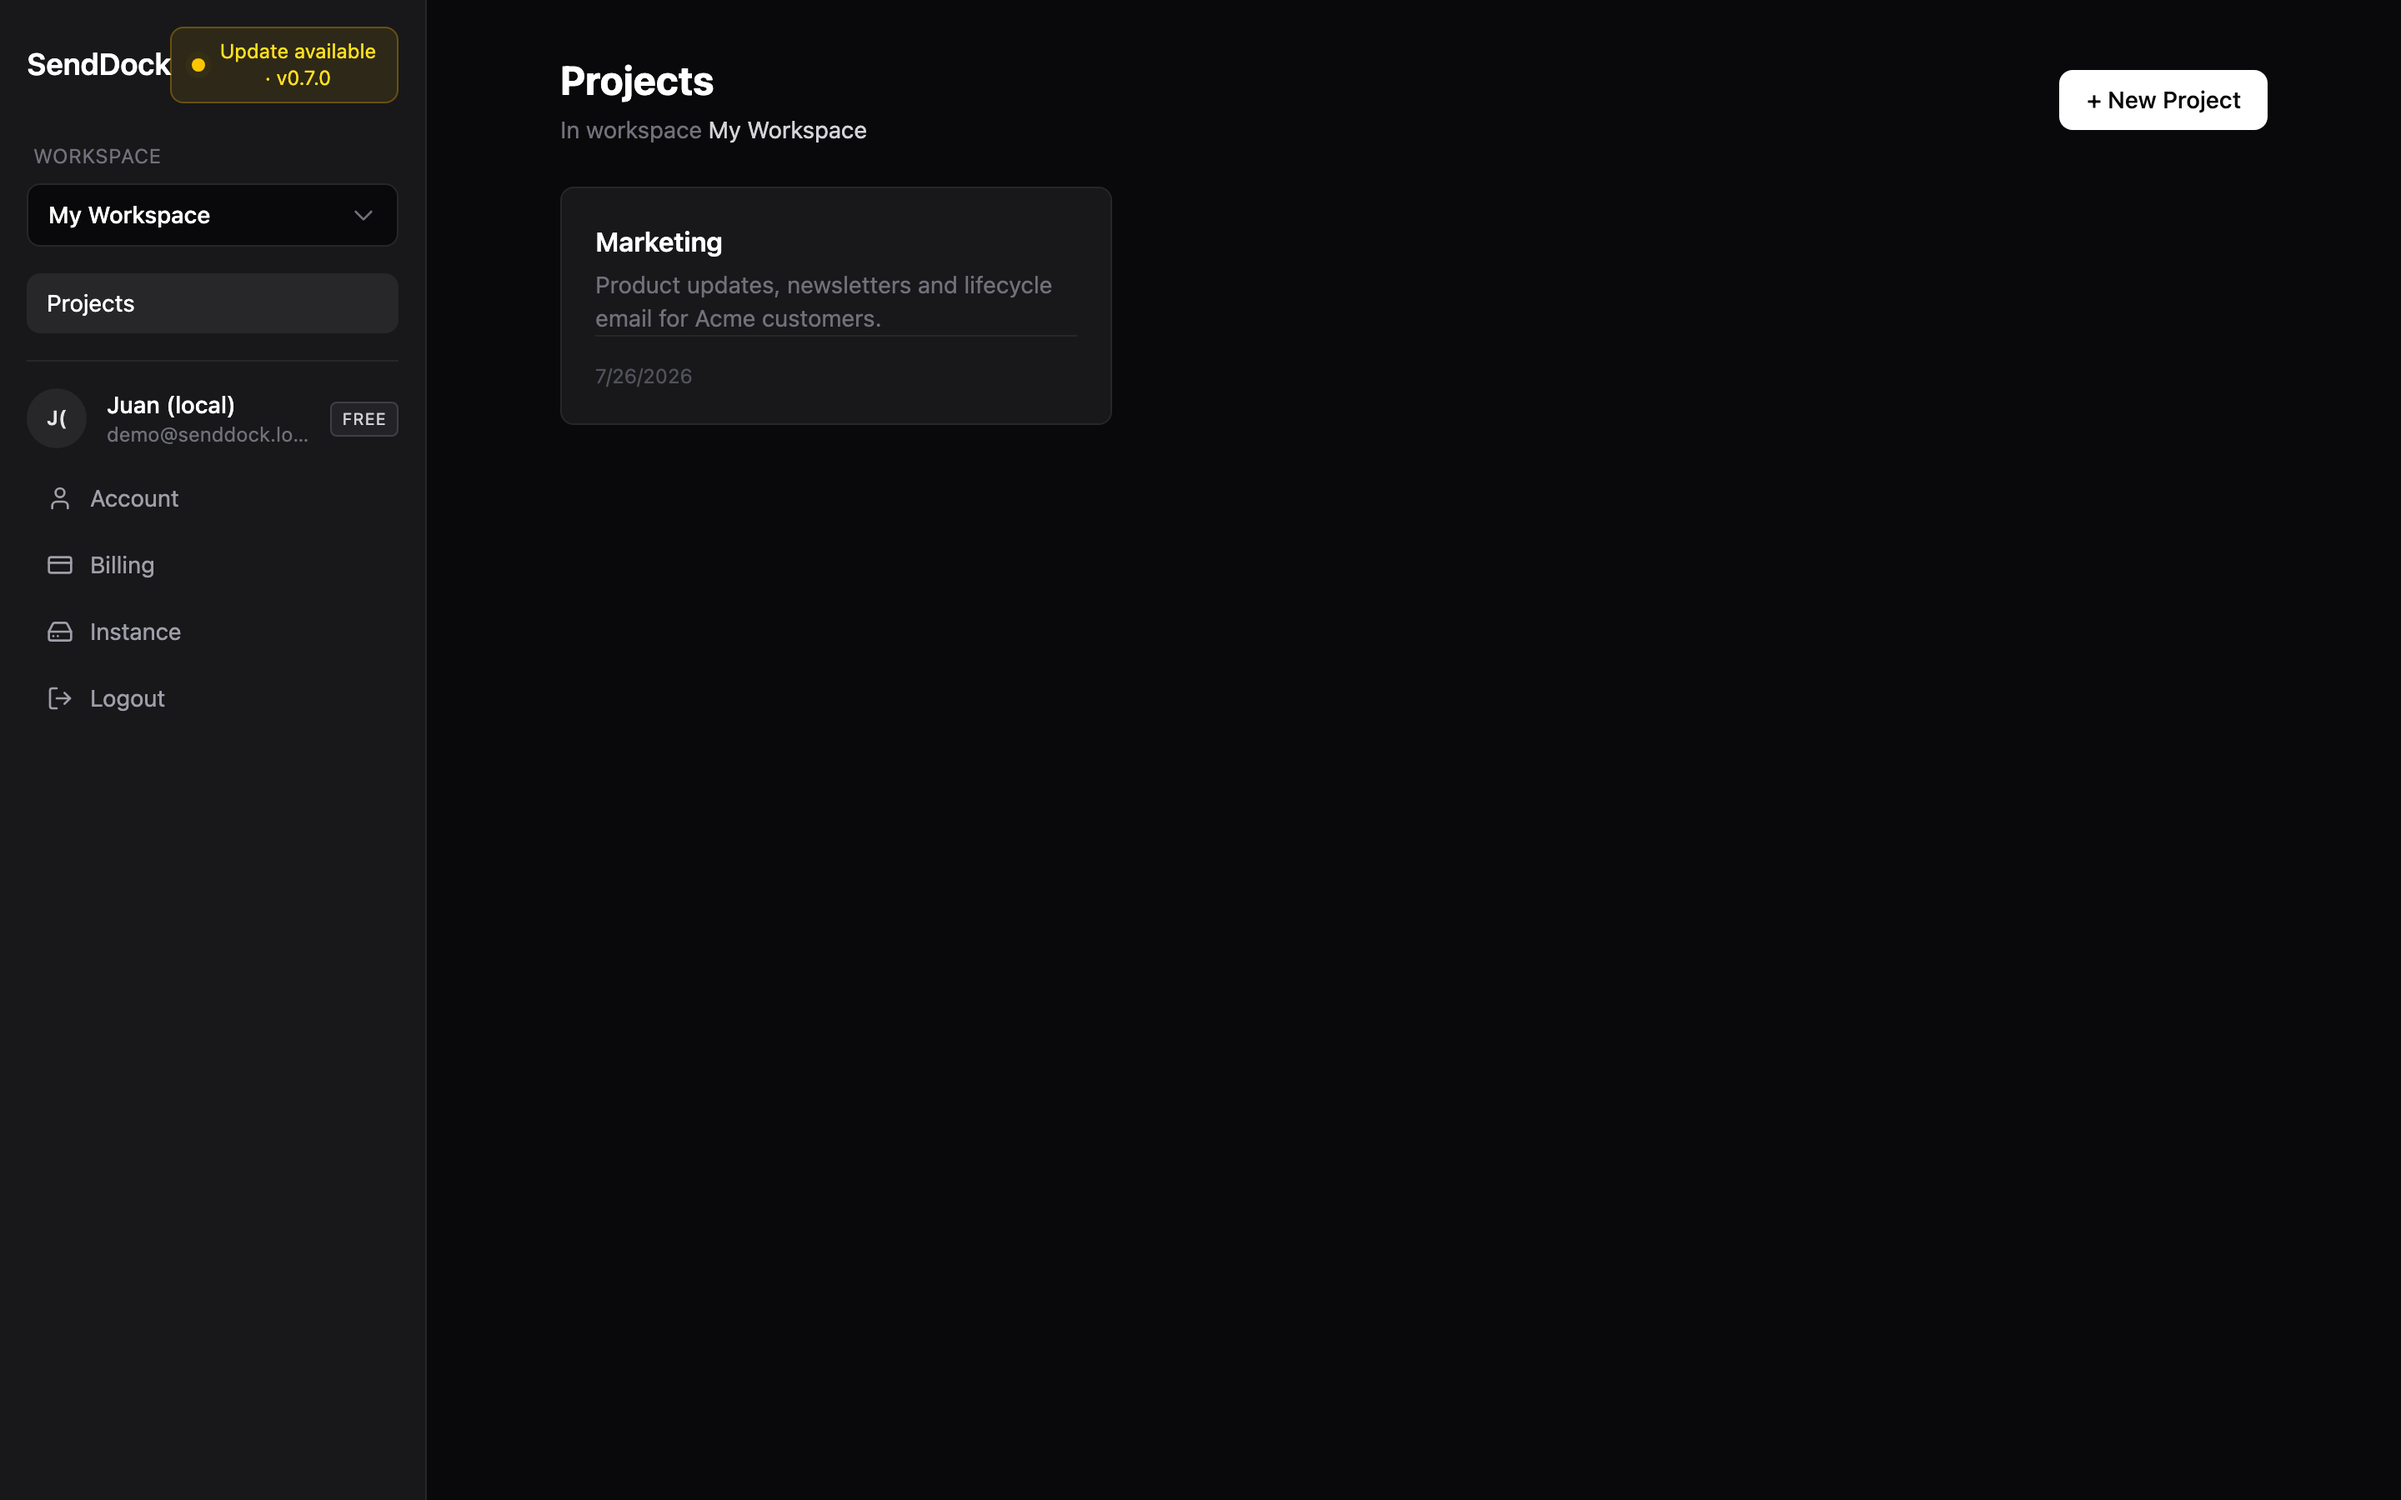
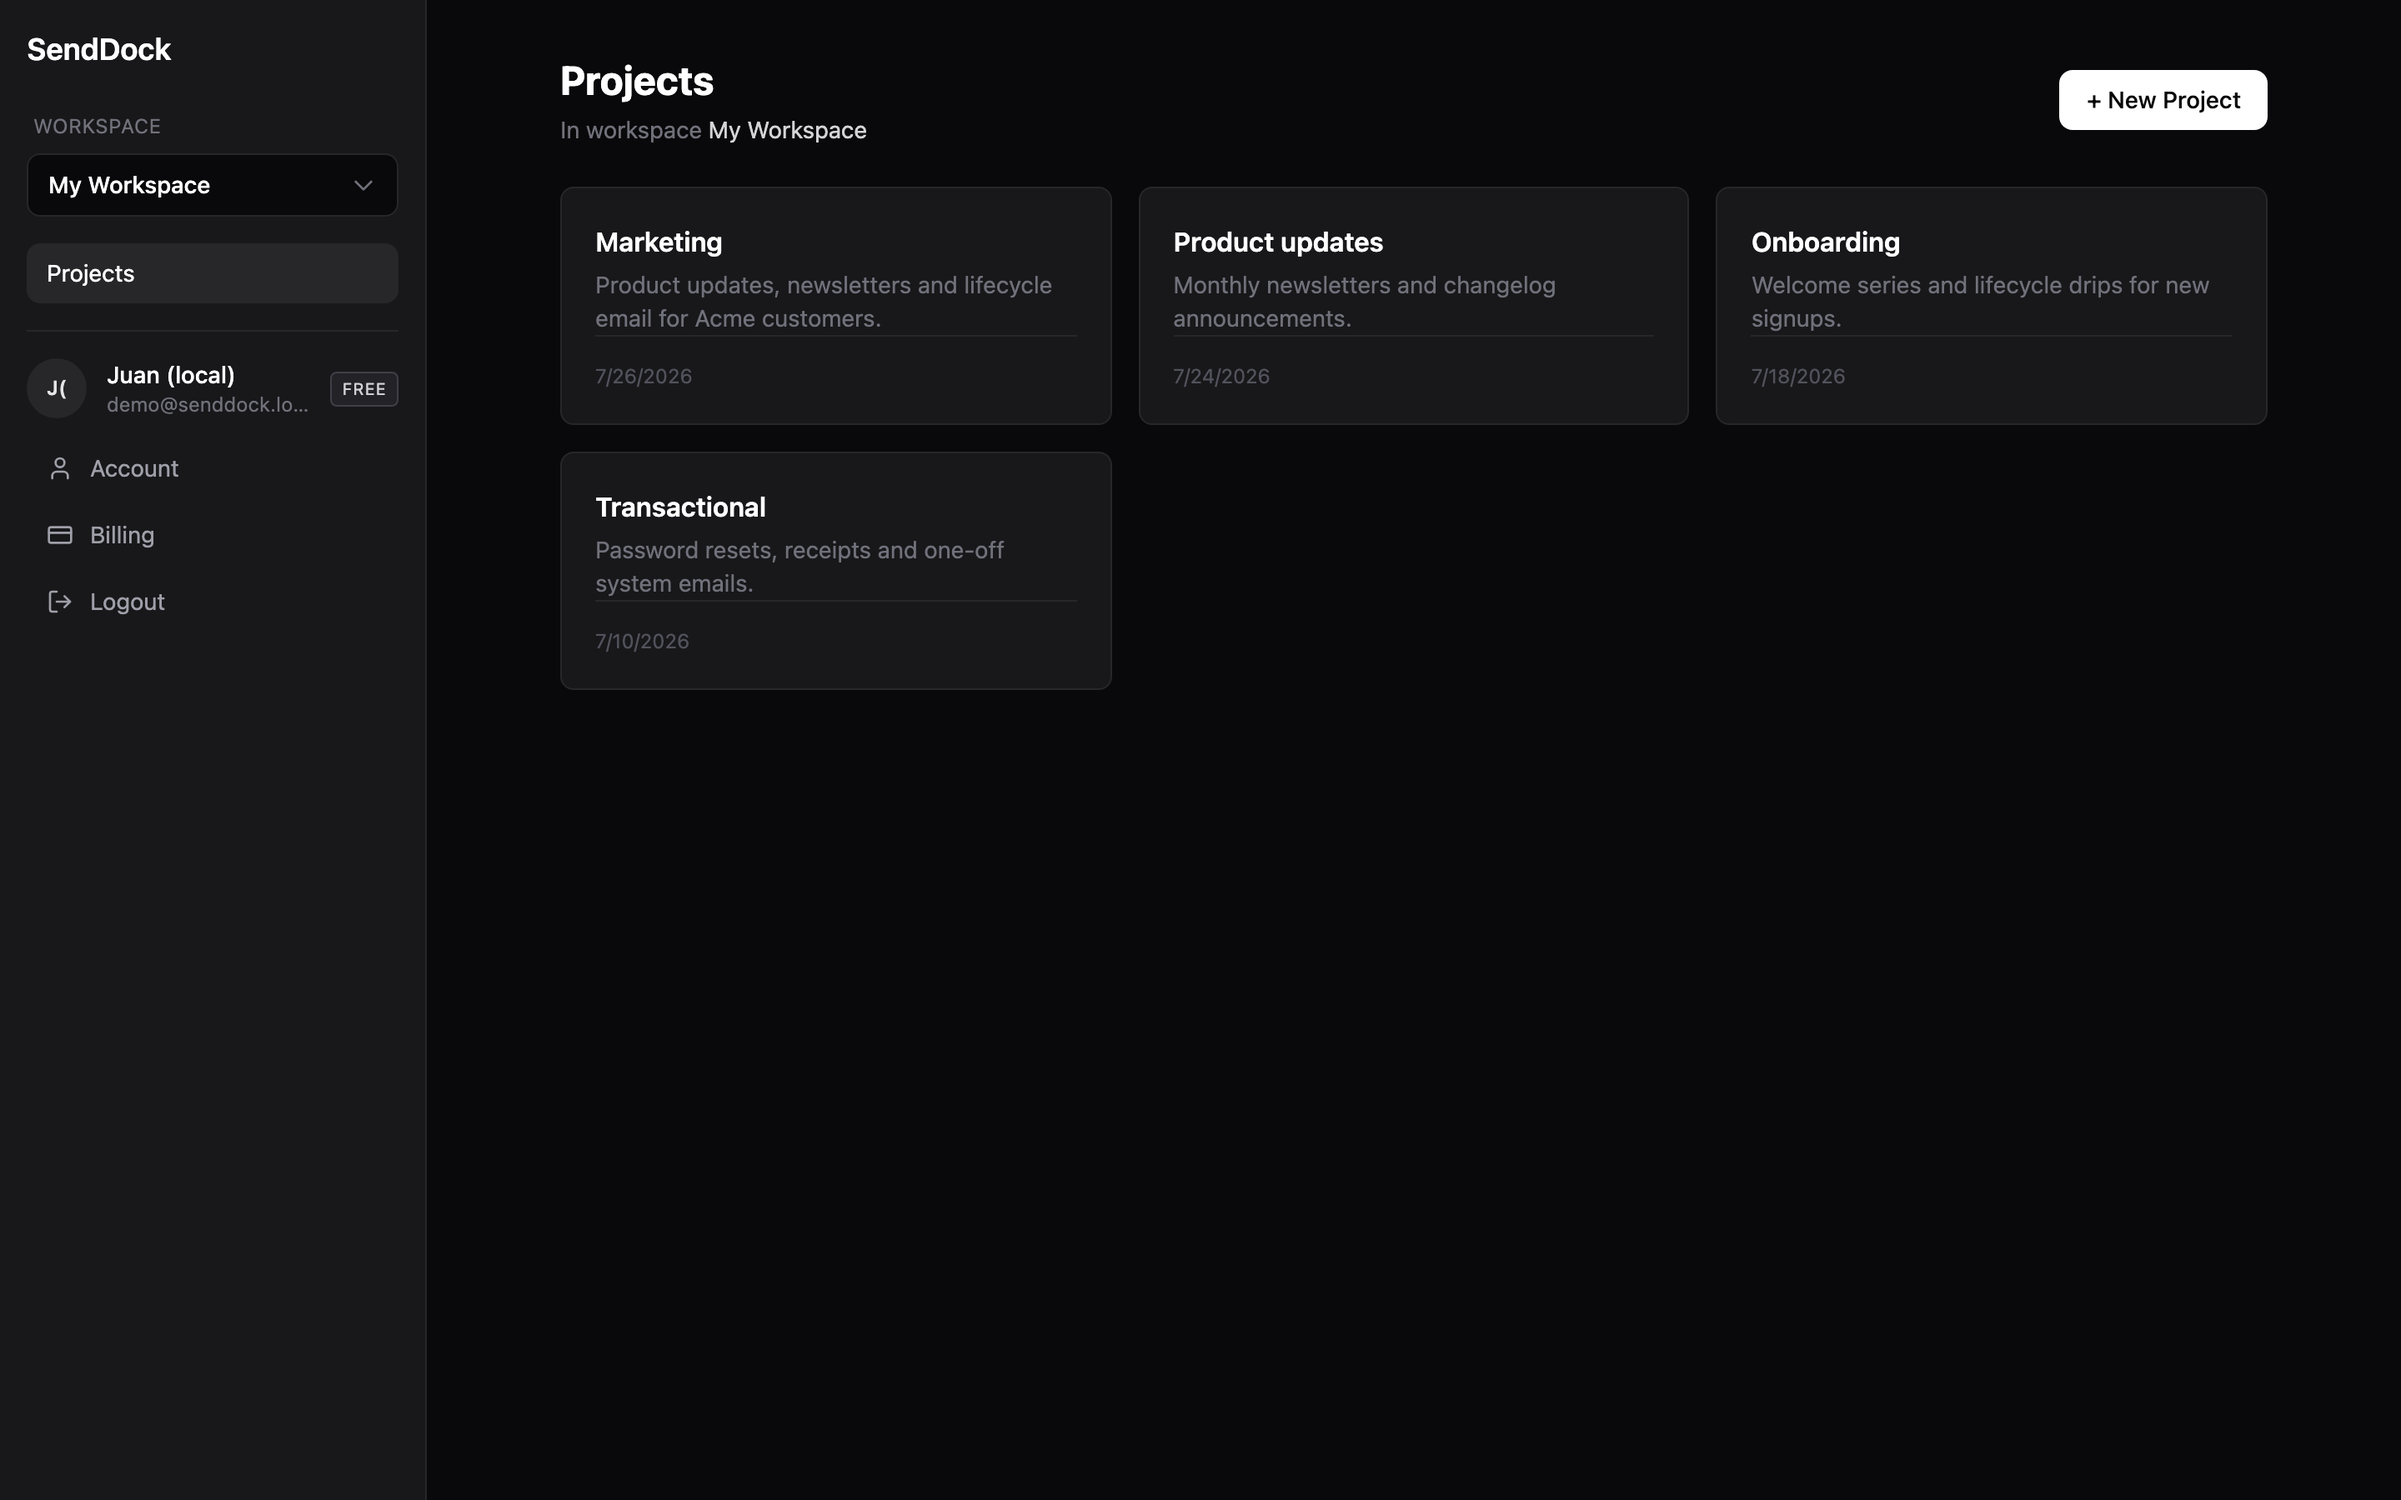
docs: fuller, cleaner projects screenshot for the README
The projects dashboard shot had a single card in a lot of empty space and
an 'update available' badge. Recapture it with several projects and the
badge hidden, and correct the caption.

diff --git a/README.md b/README.md
@@ -103,7 +103,7 @@ For Dokploy, reverse-proxy setups, Cloudflare Tunnel, source builds, license act
 | | |
 |---|---|
 | ![Projects](docs/public/screenshots/projects.png) | ![Editor](docs/public/screenshots/editor.png) |
-| **Project dashboard** — subscribers, templates, campaigns, SMTP. | **Visual editor** — drag-and-drop email composition with GrapesJS. |
+| **Workspace dashboard** — organize projects, each its own sending identity. | **Visual editor** — drag-and-drop email composition with GrapesJS. |
 | ![Campaigns](docs/public/screenshots/campaigns.png) | ![Analytics](docs/public/screenshots/analytics.png) |
 | **Campaigns** — broadcast to your list or schedule for later. | **Analytics (free)** — tabbed dashboard: overview, campaigns, audience, engagement. |
 
